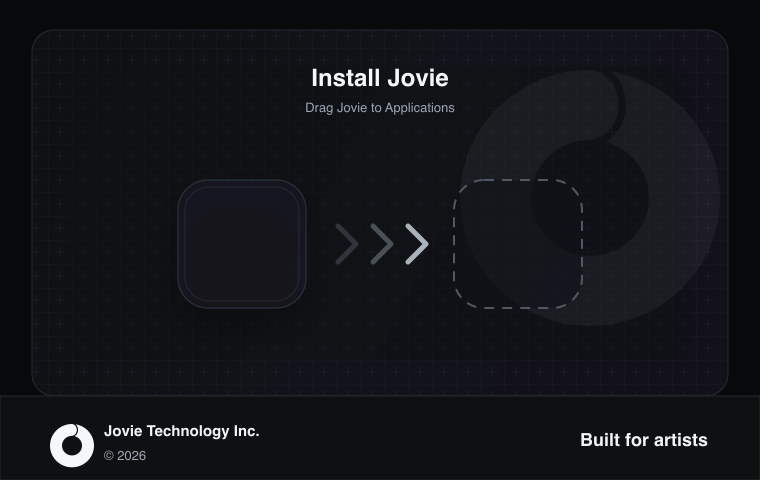
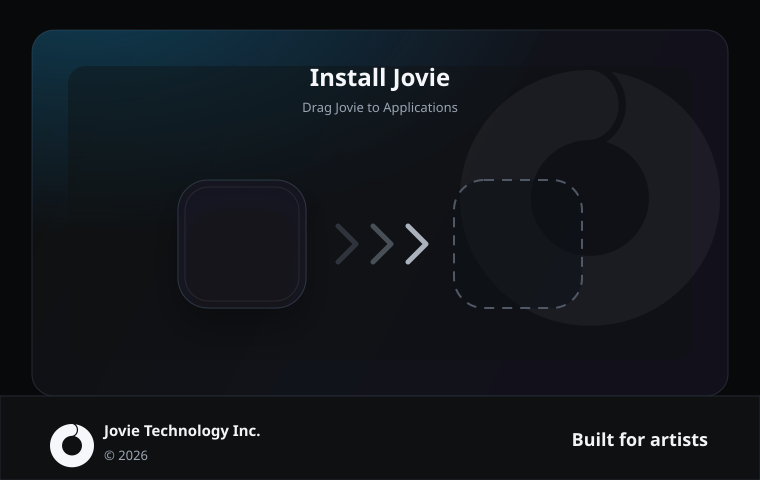
fix(desktop): quiet the installer and show shell focus
Drop the DMG plus-grid for one asymmetric Ion wash, give load-failure links a visible focus ring, and use the same Preferences ellipsis as the tray.

diff --git a/apps/desktop/src/main.ts b/apps/desktop/src/main.ts
@@ -1507,6 +1507,7 @@ function buildDesktopShellHtml(input: {
       a { display: inline-flex; height: 34px; align-items: center; justify-content: center; border-radius: var(--system-b-radius-pill); padding: 0 13px; color: var(--system-b-text-primary); font-size: 12px; font-weight: 590; text-decoration: none; }
       .primary { background: var(--system-b-primary-bg); color: var(--system-b-primary-fg); }
       .secondary { color: var(--system-b-text-secondary); }
+      a:focus-visible { outline: 2px solid var(--system-b-text-primary); outline-offset: 3px; }
       ${DESKTOP_BUILD_IDENTITY_SHELL_CSS}
     </style>
   </head>
@@ -2988,7 +2989,7 @@ function buildApplicationMenu(): Menu {
           buildUpdateMenuItem(),
           { type: 'separator' },
           {
-            label: 'Preferences...',
+            label: 'Preferences…',
             accelerator: 'Command+,',
             click: openPreferences,
           },
@@ -3028,7 +3029,7 @@ function buildApplicationMenu(): Menu {
           },
         },
         {
-          label: 'Preferences...',
+          label: 'Preferences…',
           accelerator: 'Ctrl+,',
           click: openPreferences,
         },
